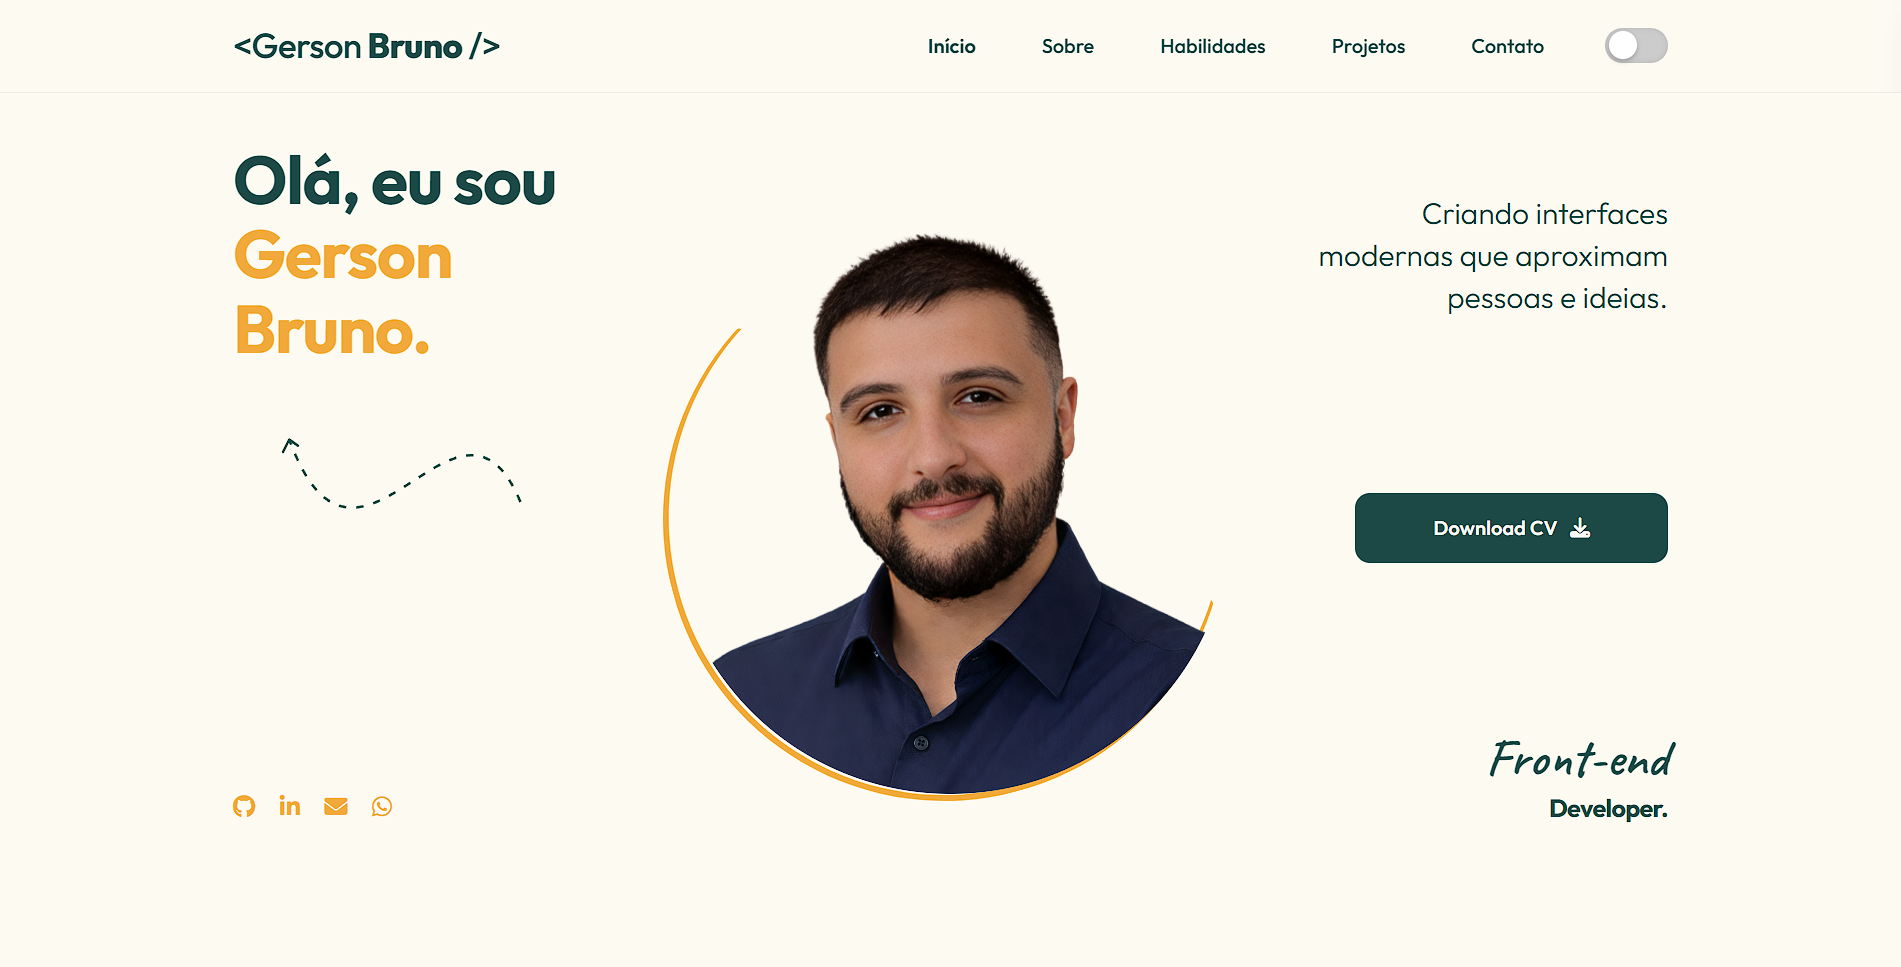
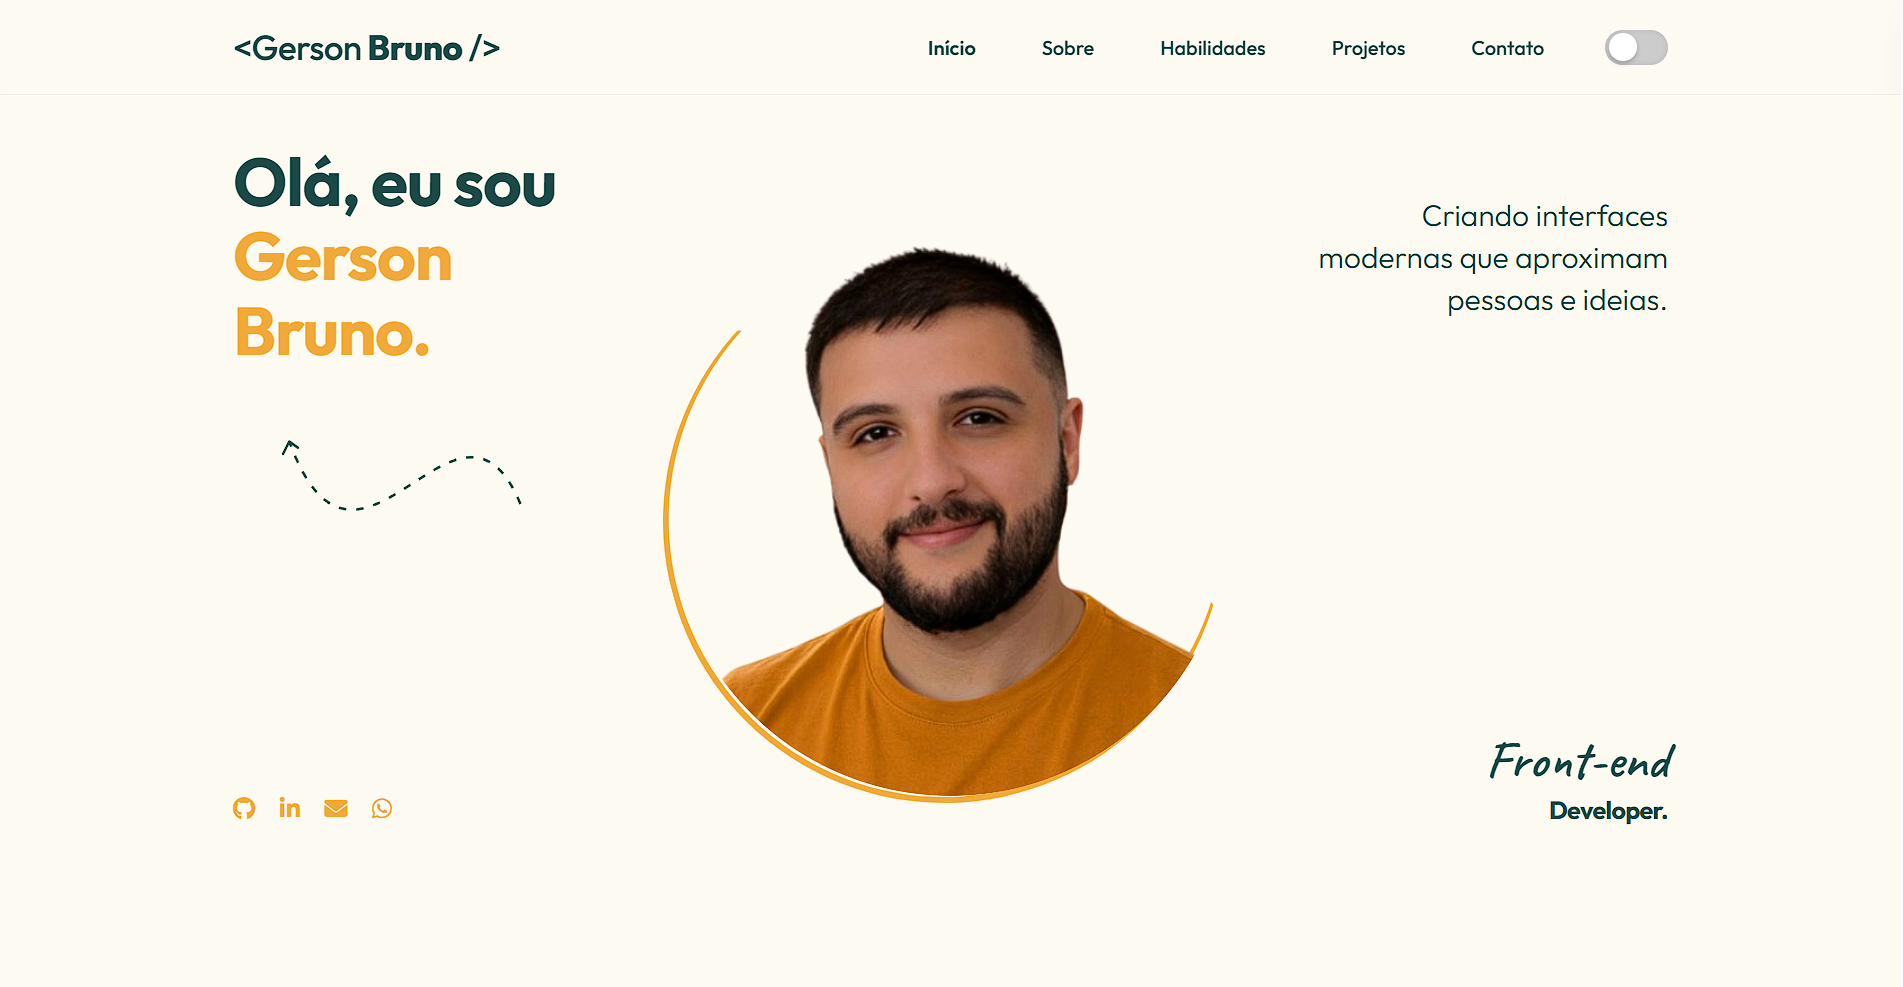
Alteração da foto do profile e remove CV

diff --git a/index.html b/index.html
@@ -99,11 +99,11 @@
                         <p>Criando interfaces modernas que aproximam pessoas e ideias.</p>
                     </div>
 
-                    <div class="cv-download-block">
+                    <!-- <div class="cv-download-block">
                         <a href="#" download class="btn btn-primary btn-download">
                             Download CV <i class="fas fa-download"></i>
                         </a>
-                    </div>
+                    </div> -->
 
                     <div class="signature">
                         Front-end <br><span class="signature-sub">Developer.</span>
